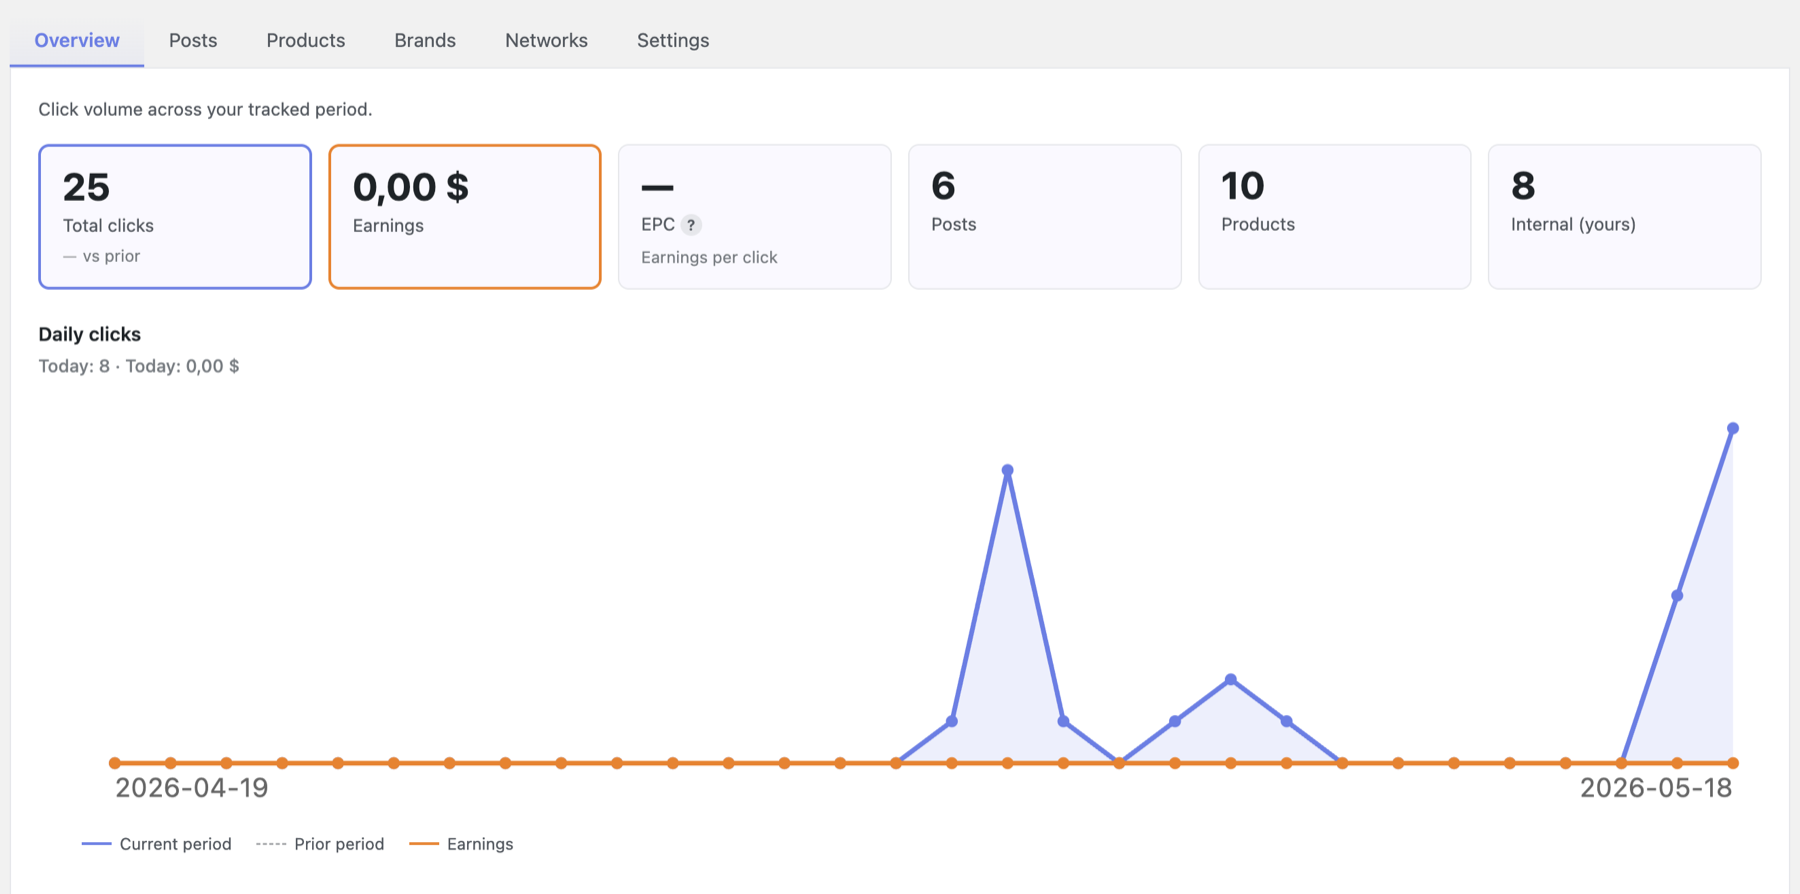
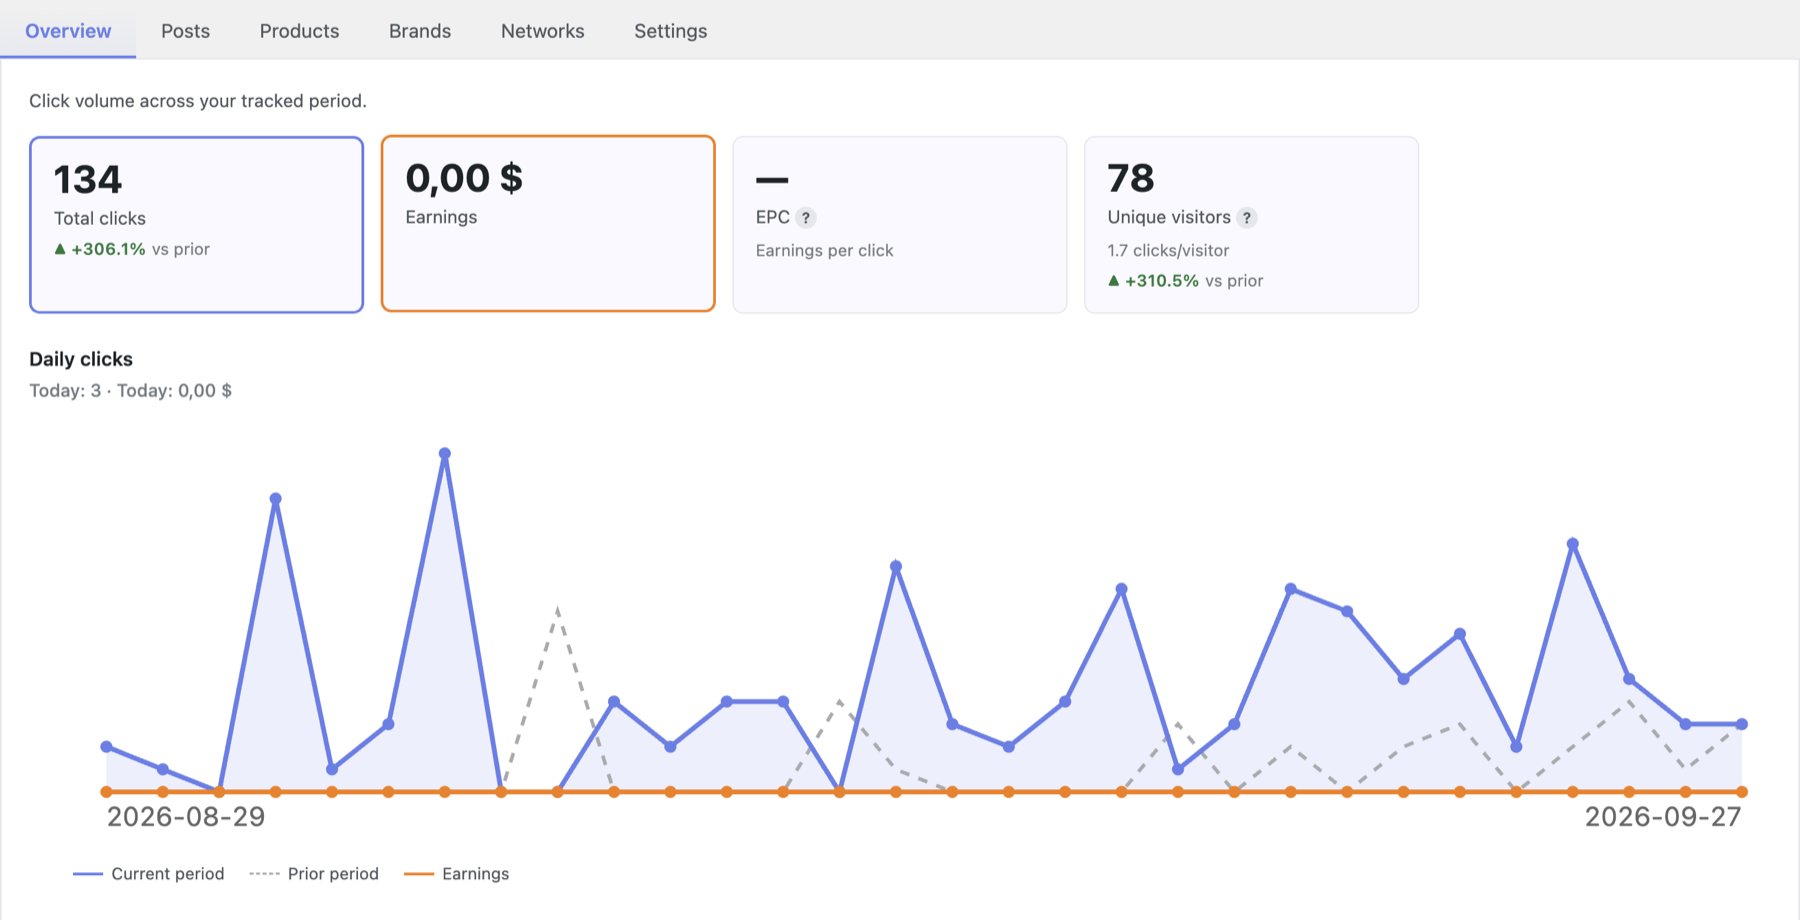
1.0.40: Analytics-Vorschau zeigt das aktuelle Dashboard

diff --git a/myfeeds-affiliate-feed-manager/includes/class-feature-previews.php b/myfeeds-affiliate-feed-manager/includes/class-feature-previews.php
@@ -217,7 +217,7 @@ class MyFeeds_Feature_Previews {
                 array(
                     'image'       => $this->preview_image_url('analytics-overview.png'),
                     'placeholder' => __('Analytics overview', 'myfeeds-affiliate-feed-manager'),
-                    'caption'     => __('Total clicks, earnings and EPC at a glance, broken down by post, product, brand and network.', 'myfeeds-affiliate-feed-manager'),
+                    'caption'     => __('Total clicks, earnings, EPC and unique visitors at a glance, day by day against the period before, broken down by post, product, brand and network.', 'myfeeds-affiliate-feed-manager'),
                 ),
                 array(
                     'image'       => $this->preview_image_url('analytics-insights.png'),

diff --git a/myfeeds-affiliate-feed-manager/myfeeds-affiliate-feed-manager.php b/myfeeds-affiliate-feed-manager/myfeeds-affiliate-feed-manager.php
@@ -3,7 +3,7 @@
  * Plugin Name: MyFeeds — Shoppable Affiliate Product Cards
  * Plugin URI: https://myfeeds.site
  * Description: Make your blog shoppable. Import an affiliate product feed and place searchable product tiles in any post. Prices and links stay current.
- * Version: 1.0.39
+ * Version: 1.0.40
  * Author: MyFeeds
  * Author URI: https://myfeeds.site
  * License: GPLv2 or later
@@ -39,7 +39,7 @@ if (!defined('ABSPATH')) {
 // =============================================================================
 
 // Define plugin constants
-define('MYFEEDS_VERSION', '1.0.39');
+define('MYFEEDS_VERSION', '1.0.40');
 define('MYFEEDS_PLUGIN_DIR', plugin_dir_path(__FILE__));
 define('MYFEEDS_PLUGIN_URL', plugin_dir_url(__FILE__));
 define('MYFEEDS_PLUGIN_FILE', __FILE__);
